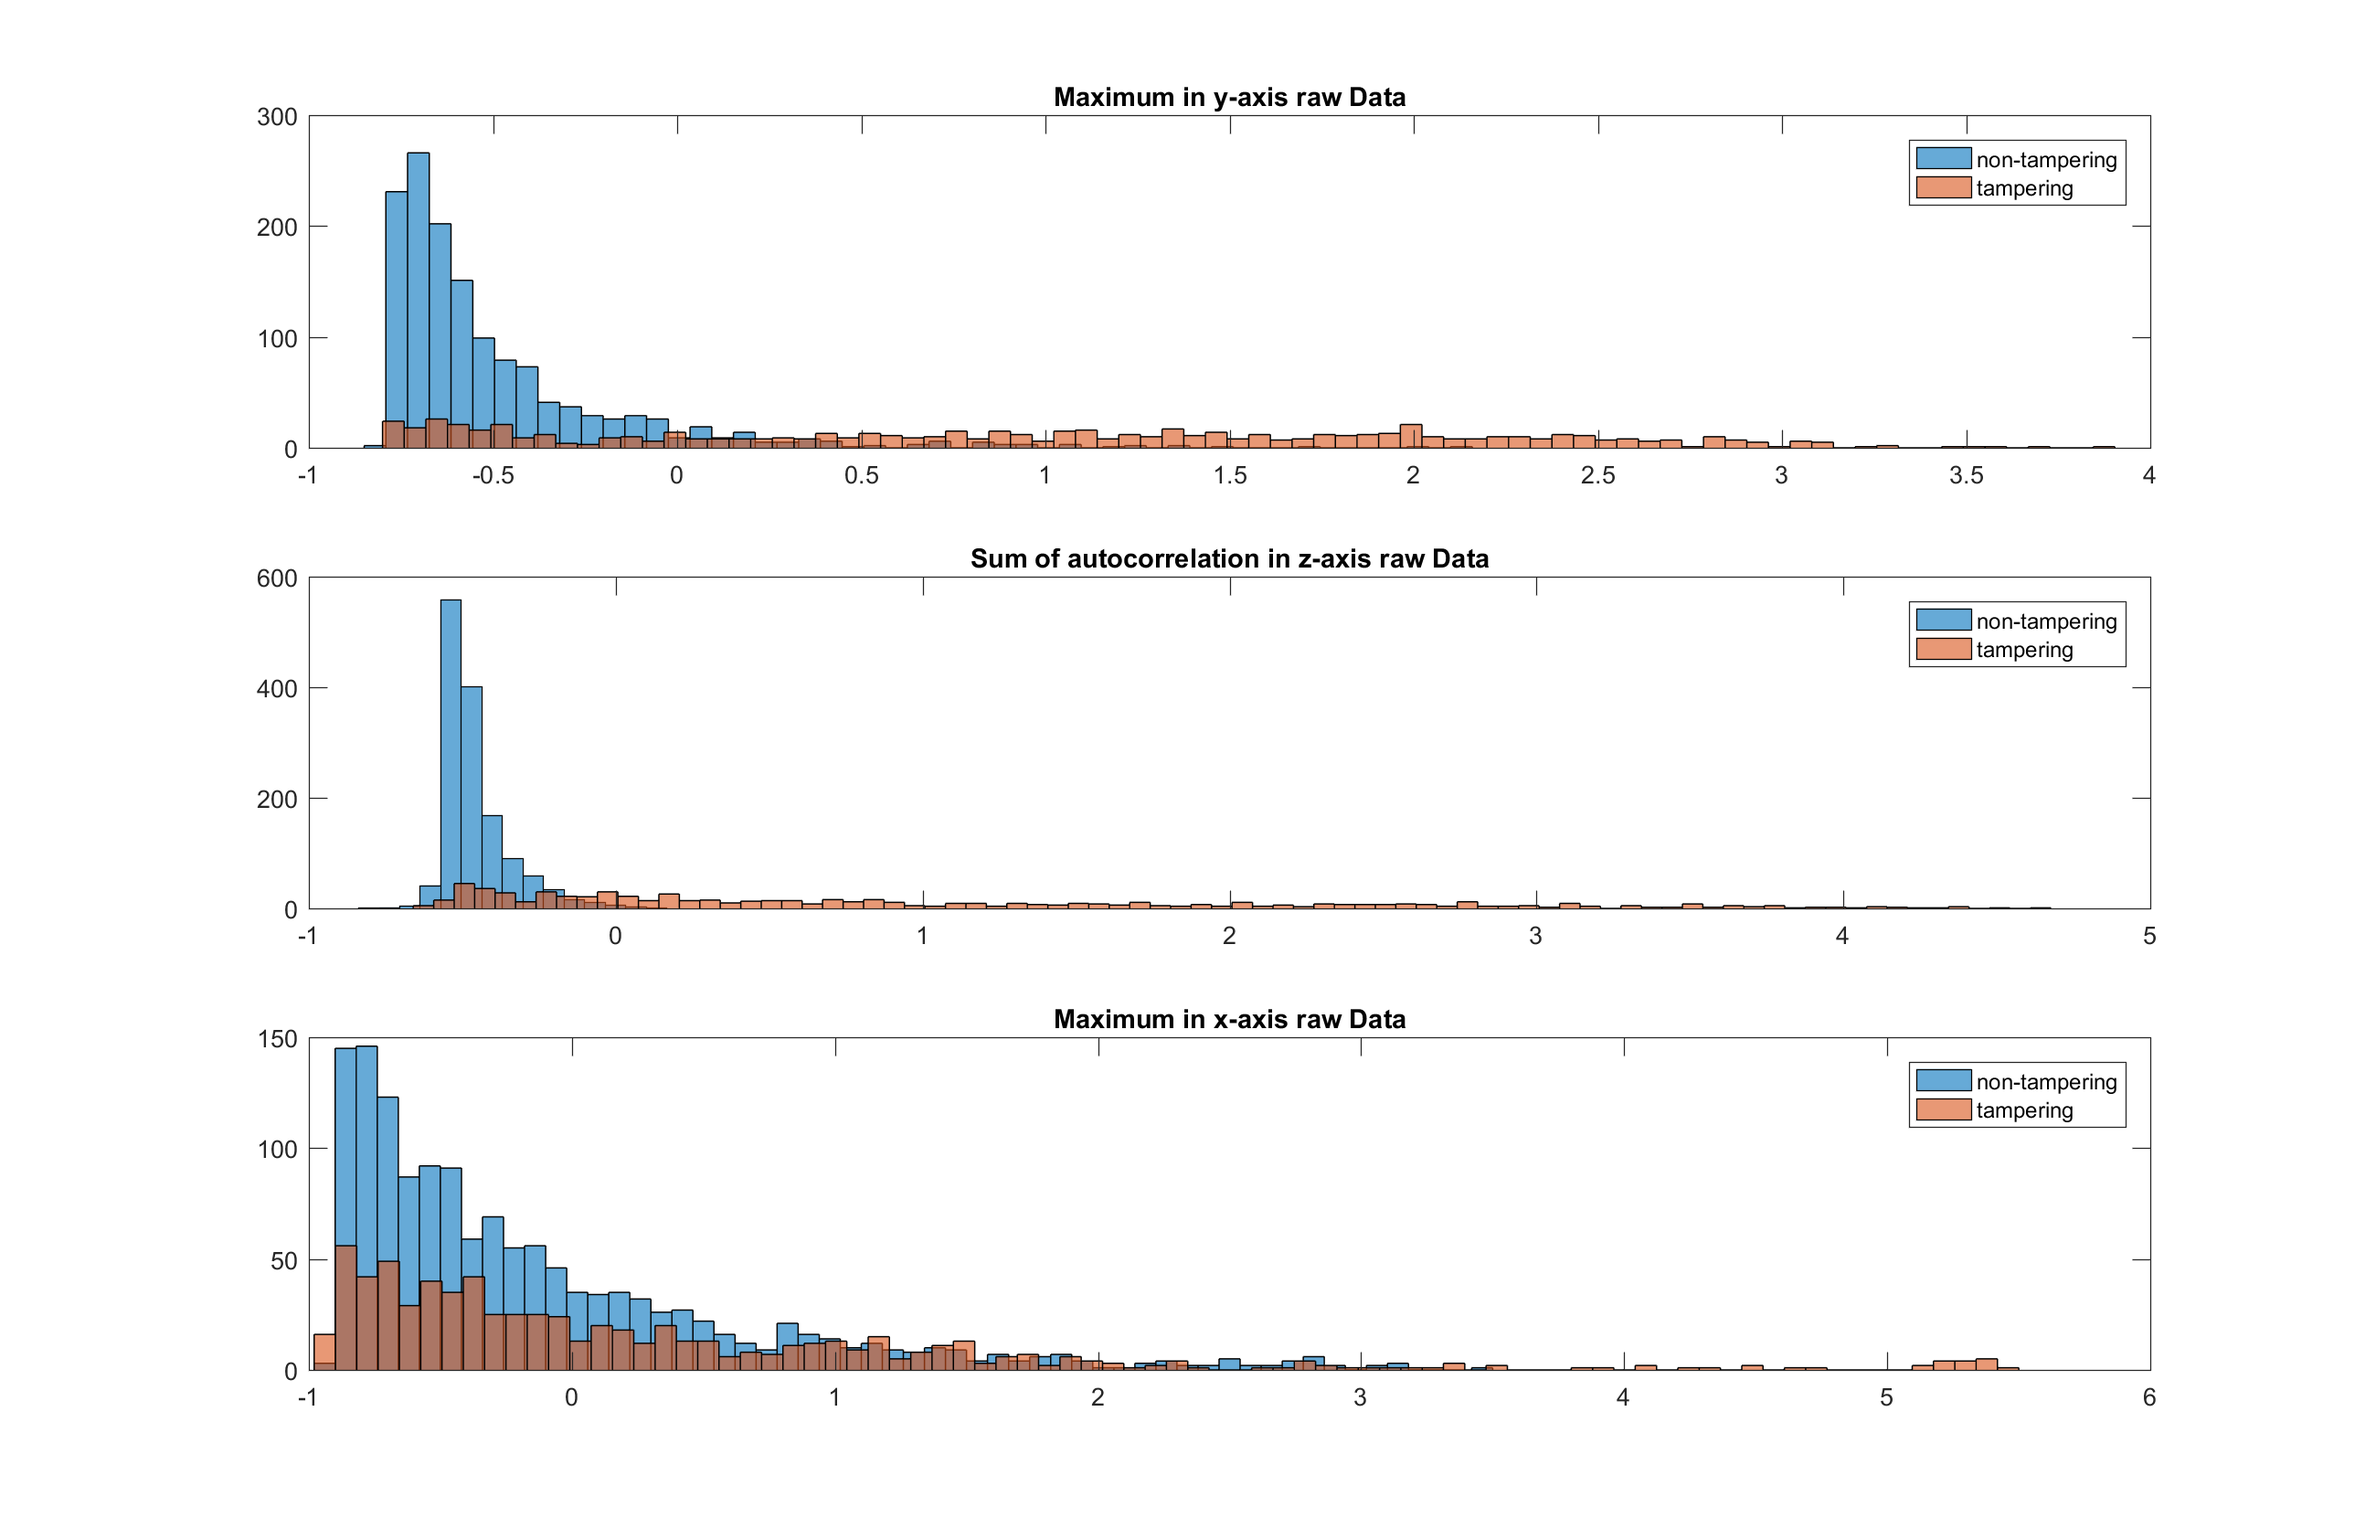
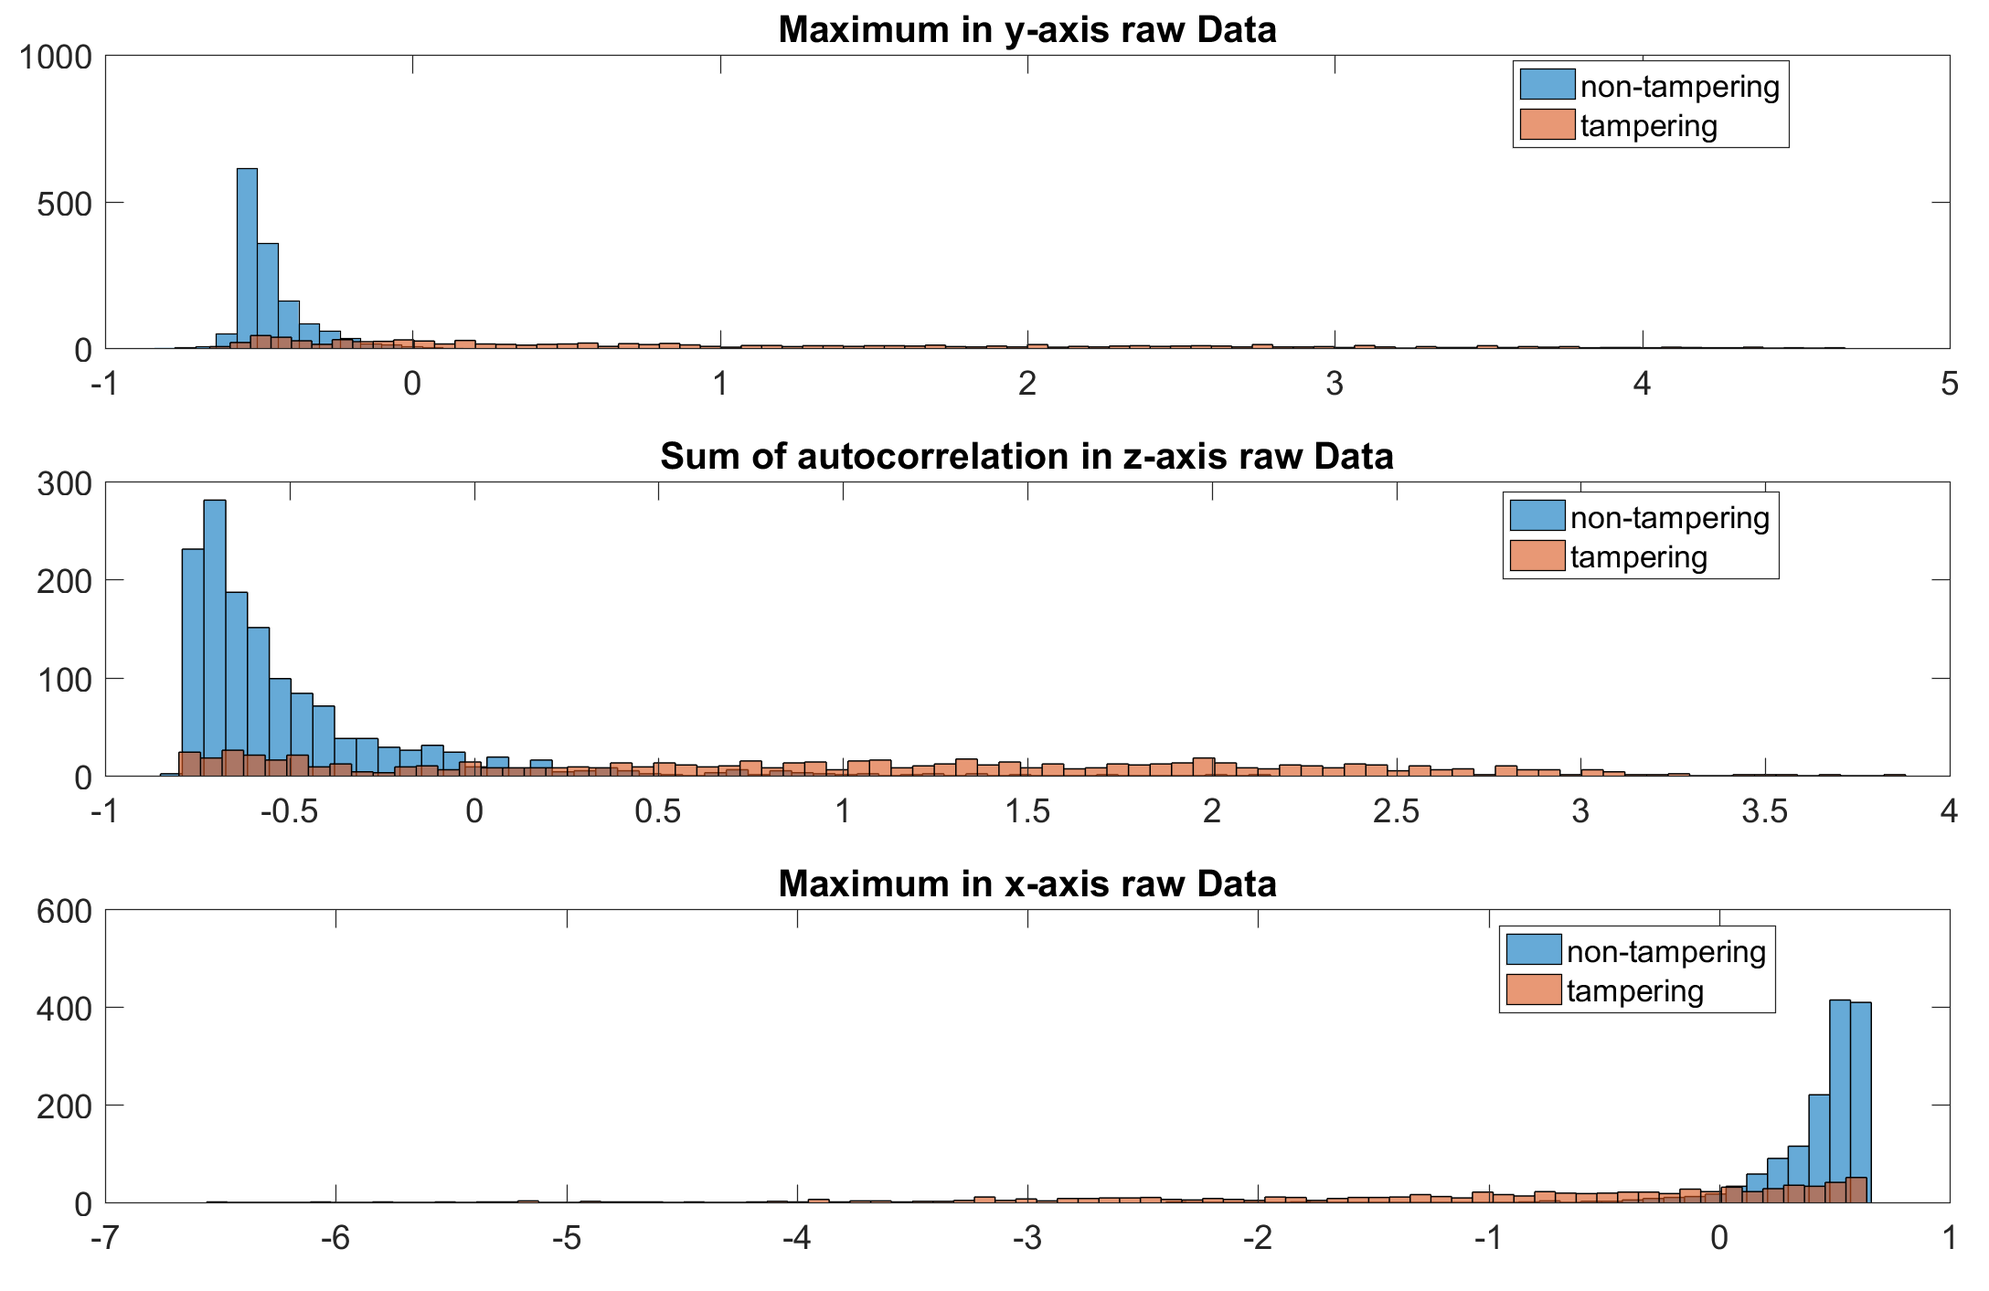
Added a section which prints psdx, added a section which plots the adding of features with regards to accuracy. Also added a gif and belonging images of adding a dimension

diff --git a/Matlab/exjobb/Matlab ACC/ACC.m b/Matlab/exjobb/Matlab ACC/ACC.m
@@ -44,14 +44,14 @@ nbrOfSamples = target_freq*sampling_time;
 
 [meanFeatures, maxFeatures, minFeatures, kurtosis_samples, skewness_samples, sumFeatures, ...
     meanTiltFeatures, stdFeatures, stdTiltFeatures, sumAllDimFeatures, maxTiltFeatures, ...
-    minTiltFeatures, der_mean, der_max, der_min, der_sum, moments, sum_changes, mean_changes,sumAbsFeatures, index_of_first_max, index_of_first_min,max_changes, max_changes_index] = extract_base_features( samples,nbrOfSamples,nbrfiles );
+    minTiltFeatures, der_mean, der_max, der_min, der_sum, moments, sum_changes, mean_changes,sumAbsFeatures, index_of_first_max, index_of_first_min,max_changes, max_changes_index, tiltXY, tiltXZ, tiltYZ] = extract_base_features( samples,nbrOfSamples,nbrfiles );
 
 
 %% compute dft values
 [ psdx_peak_power_ratio, psdx_peak_power_ratio_tilt, psdx_peak_freq_bin, psdx_peak_freq_bin_tilt, psdx_nbrPeaks_tilt, ...
     psdx_nbrPeaks,psdx_mean, psdx_max, psdx_min,psdx_sum, psdx_tilt_mean, psdx_tilt_max, psdx_tilt_min,psdx_tilt_sum, ...
    skewness_psdx, skewness_tilt_psdx, kurtosis_psdx ,kurtosis_tilt_psdx, dft_tilt_k_max_freq, ...
-   dft_tilt_k_max_val,dft_samples_k_max_freq, dft_samples_k_max_val] = extract_dft_features( samples, nposfiles,nnegfiles,nbrOfSamples, target_freq , nbrfiles);
+   dft_tilt_k_max_val,dft_samples_k_max_freq, dft_samples_k_max_val, psdx] = extract_dft_features( samples, nposfiles,nnegfiles,nbrOfSamples, target_freq , nbrfiles);
 
 
 %% Extract correlation features
@@ -100,7 +100,7 @@ prescision = true_positive/(true_positive+false_positive);
 recall = true_positive;
 F1_score = 2*(prescision*recall)/(prescision+recall);
 
-%% plot effect of pivot change for test ratio, in favor of negative
+%% plot effect of pivot change for test ratio
 [ max_neg, new_ratio_for_pivot_change_neg,min_pos, new_ratio_for_pivot_change_pos ] = no_door_left_behind(scores_positive_test ,scores_negative_test  );
 %new_ratio_for_pivot_change_pos = flipud(new_ratio_for_pivot_change_pos);
 combined =  cat(1, new_ratio_for_pivot_change_neg, new_ratio_for_pivot_change_pos);
@@ -124,16 +124,26 @@ end_door = 14; %Door number 14 is all negatives
 
 [sortedBeta,sortingIndices] = sort(abs(SVMModel.Beta),'descend');
 %plot_feature_clustering_1Dx3(psdx_max(1,:),psdx_max(2,:),psdx_max(3,:), nposfiles,nnegfiles);
-%plot_feature_clustering_1Dx3(featureVector(:,sortingIndices(1)),featureVector(:,sortingIndices(2)),featureVector(:,sortingIndices(3)), nposfiles,nnegfiles);
-plot_feature_clustering_2D(featureVector(:,1)', featureVector(:,8)',nposfiles,nnegfiles);
-%plot_feature_clustering_3D(featureVector(:,sortingIndices(1))', featureVector(:,sortingIndices(2))',featureVector(:,sortingIndices(3))',nposfiles,nnegfiles);
+%plot_feature_clustering_1Dx3(featureVector(:,1)', featureVector(:,8)',featureVector(:,5)', nposfiles,nnegfiles);
+%plot_feature_clustering_2D(featureVector(:,5)', featureVector(:,8)',nposfiles,nnegfiles);
+plot_feature_clustering_3D(featureVector(:,8)', featureVector(:,5)',featureVector(:,1)',nposfiles,nnegfiles);
 
 %% plot train and testing ratio over alpha
 max_alpha = 1.00;
 min_alpha = 0.05;
 write_svm_model_to_file = 0;
 [training_precision, testing_precision] = plot_ratio_over_alpha(min_alpha, max_alpha, attempts, cross_corr_max, sum_auto, min_auto, sum_pauto, min_pauto, auto_bins, auto_corr_flat, nposfiles, nnegfiles, write_svm_model_to_file);
+%% Plot the accuracy as you add features
 
+[added_features_result] = test_k_weighted_features( featureVector,SVMModel.Beta,attempts/2,nposfiles,nnegfiles);
+plot(1:41, added_features_result(:,2), 'r', 'Linewidth', 1.5);
+hold on;
+plot(1:41, 1-added_features_result(:,1), 'b', 'Linewidth', 1.5);
+xlabel('Feature #', 'FontSize', 14);
+ylabel('Average accuracy',  'FontSize', 14);
+set(gca,'fontsize',15)
+legend('True positive', 'False positive');
+title('False positive and True positive accuracy as features are added');
 %% Plot decrease
 max_samples = 256;
 min_samples = 32;
@@ -157,12 +167,24 @@ attempts = 100;
 %% Plot raw data
 close all;
 x = (1:256)/200;
+x = 1:129;
 samplestemp = samples/16384;
 figure;
-plot(x,samplestemp(:,2,898), 'b', 'Linewidth', 1.5)
+plot(x,psdx(:,3,983), 'b', 'Linewidth', 1.5);
 hold on
-plot(x,samplestemp(:,2,65), 'r', 'Linewidth', 1.5)
+plot(x,psdx(:,3,45), 'r', 'Linewidth', 1.5);
 xlabel('Time(s)',  'FontSize', 14);
 ylabel('Acceleration (g)',  'FontSize', 10);
+set(gca,'fontsize',15)
+legend('Negative observation', 'Positive observation');
+
+%% Plot psdx
+
+freq = 0:200/256:100;
+plot(freq, psdx(:,3,983), 'b', 'Linewidth', 1.5);
+hold on;
+plot(freq, psdx(:,3,45), 'r', 'Linewidth', 1.5);
+xlabel('Frequency (Hz)', 'FontSize', 14);
+ylabel('Power/frequency (db/Hz)',  'FontSize', 14);
 set(gca,'fontsize',15)
 legend('Negative observation', 'Positive observation');

diff --git a/Matlab/exjobb/Matlab ACC/plot_feature_clustering_1Dx3.m b/Matlab/exjobb/Matlab ACC/plot_feature_clustering_1Dx3.m
@@ -10,7 +10,7 @@ function [ ] = plot_feature_clustering_1Dx3( vector1,vector2, vector3,nposfiles,
     histogram(vector1(nposfiles+1:nposfiles+nnegfiles),nbr_bins_neg);
     hold on;
     histogram(vector1(1:nposfiles), nbr_bins_pos);
-    title('Maximum in y-axis raw Data');
+    title('Sum of autocorrelation in z-axis raw Data');
     legend('non-tampering','tampering');
 
     subplot(3,1,2);
@@ -19,7 +19,7 @@ function [ ] = plot_feature_clustering_1Dx3( vector1,vector2, vector3,nposfiles,
     histogram(vector2(nposfiles+1:nposfiles+nnegfiles),nbr_bins_neg);
     hold on;
     histogram(vector2(1:nposfiles), nbr_bins_pos);
-    title('Sum of autocorrelation in z-axis raw Data');
+    title('Maximum in y-axis raw Data');
     legend('non-tampering','tampering');
     
     subplot(3,1,3);

diff --git a/Matlab/exjobb/Matlab ACC/extract_dft_features.m b/Matlab/exjobb/Matlab ACC/extract_dft_features.m
@@ -1,7 +1,7 @@
 function [ psdx_peak_power_ratio, psdx_peak_power_ratio_tilt, psdx_peak_freq_bin, psdx_peak_freq_bin_tilt, psdx_nbrPeaks_tilt, ...
     psdx_nbrPeaks,psdx_mean, psdx_max, psdx_min,psdx_sum, psdx_tilt_mean, psdx_tilt_max, psdx_tilt_min,psdx_tilt_sum, ...
    skewness_psdx, skewness_tilt_psdx, kurtosis_psdx ,kurtosis_tilt_psdx, dft_tilt_k_max_freq, ...
-   dft_tilt_k_max_val,dft_samples_k_max_freq, dft_samples_k_max_val] = extract_dft_features( samples, nposfiles,nnegfiles,nbrOfSamples, target_freq, nbrfiles )
+   dft_tilt_k_max_val,dft_samples_k_max_freq, dft_samples_k_max_val, psdx] = extract_dft_features( samples, nposfiles,nnegfiles,nbrOfSamples, target_freq, nbrfiles )
 close all;
 
 tiltXZ = calc_tilt(samples(:,3,:),samples(:,1,:),nbrOfSamples);

diff --git a/Matlab/exjobb/Matlab ACC/extract_base_features.m b/Matlab/exjobb/Matlab ACC/extract_base_features.m
@@ -1,7 +1,7 @@
 function [meanFeatures, maxFeatures, minFeatures, kurtosis_samples, skewness_samples, sumFeatures, ...
     meanTiltFeatures, stdFeatures, stdTiltFeatures, sumAllDimFeatures, maxTiltFeatures, ...
     minTiltFeatures, der_mean, der_max, der_min, der_sum, moments,sum_changes, mean_changes, ...
-    sumAbsFeatures, index_of_first_max, index_of_first_min, max_changes, max_changes_index] = extract_base_features( samples,nbrOfSamples,nbrfiles )
+    sumAbsFeatures, index_of_first_max, index_of_first_min, max_changes, max_changes_index, tiltXY, tiltXZ, tiltYZ] = extract_base_features( samples,nbrOfSamples,nbrfiles )
 
 
 
